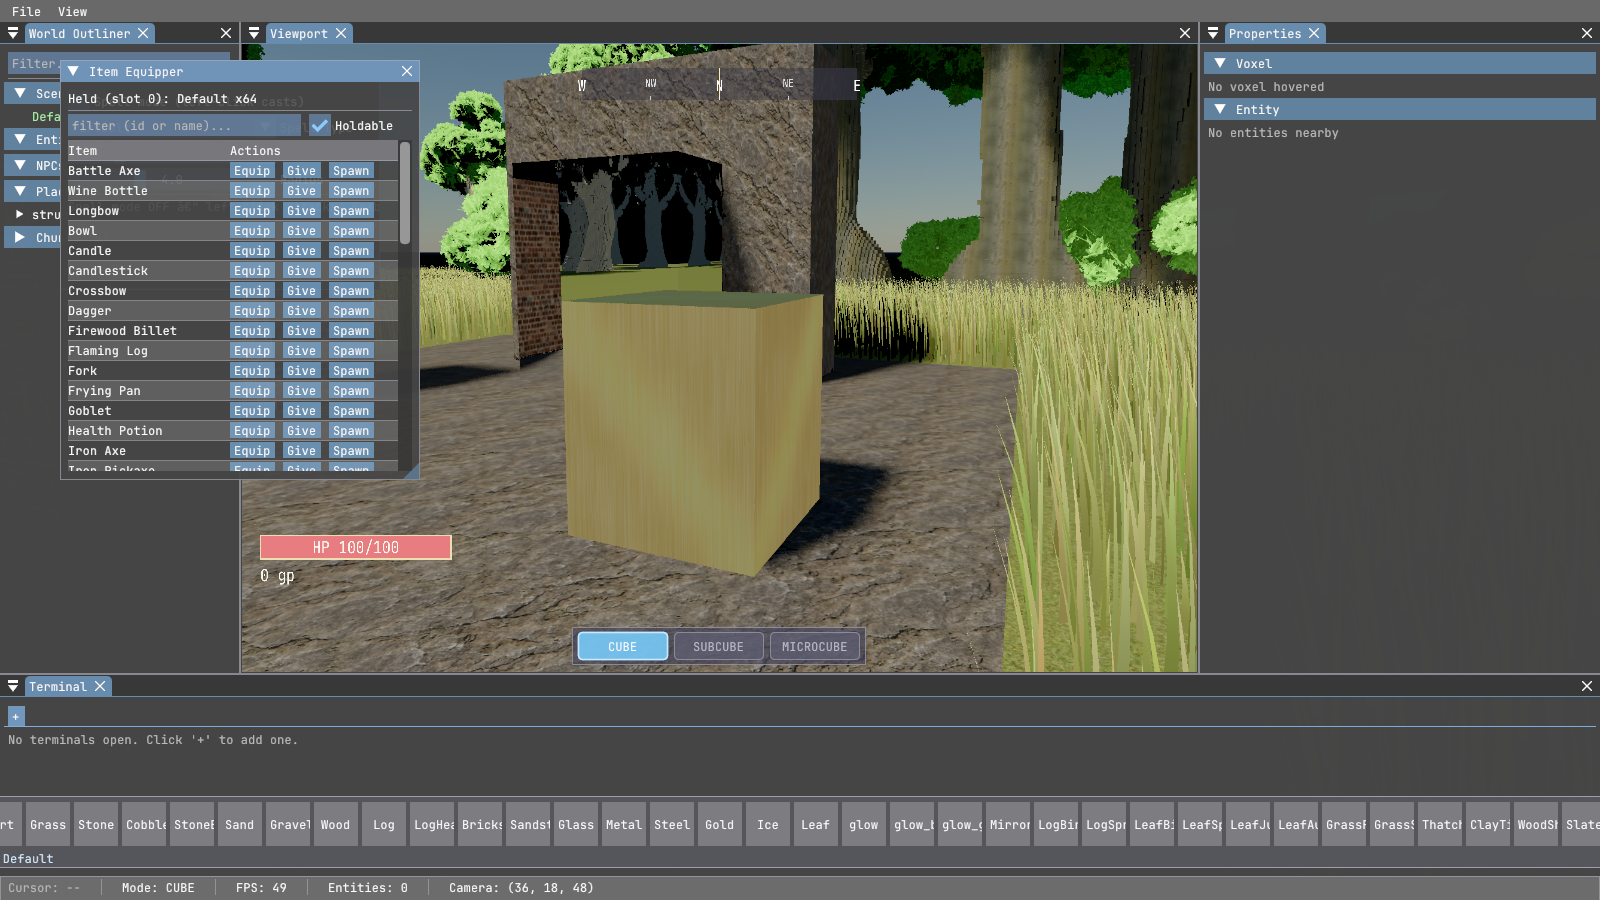
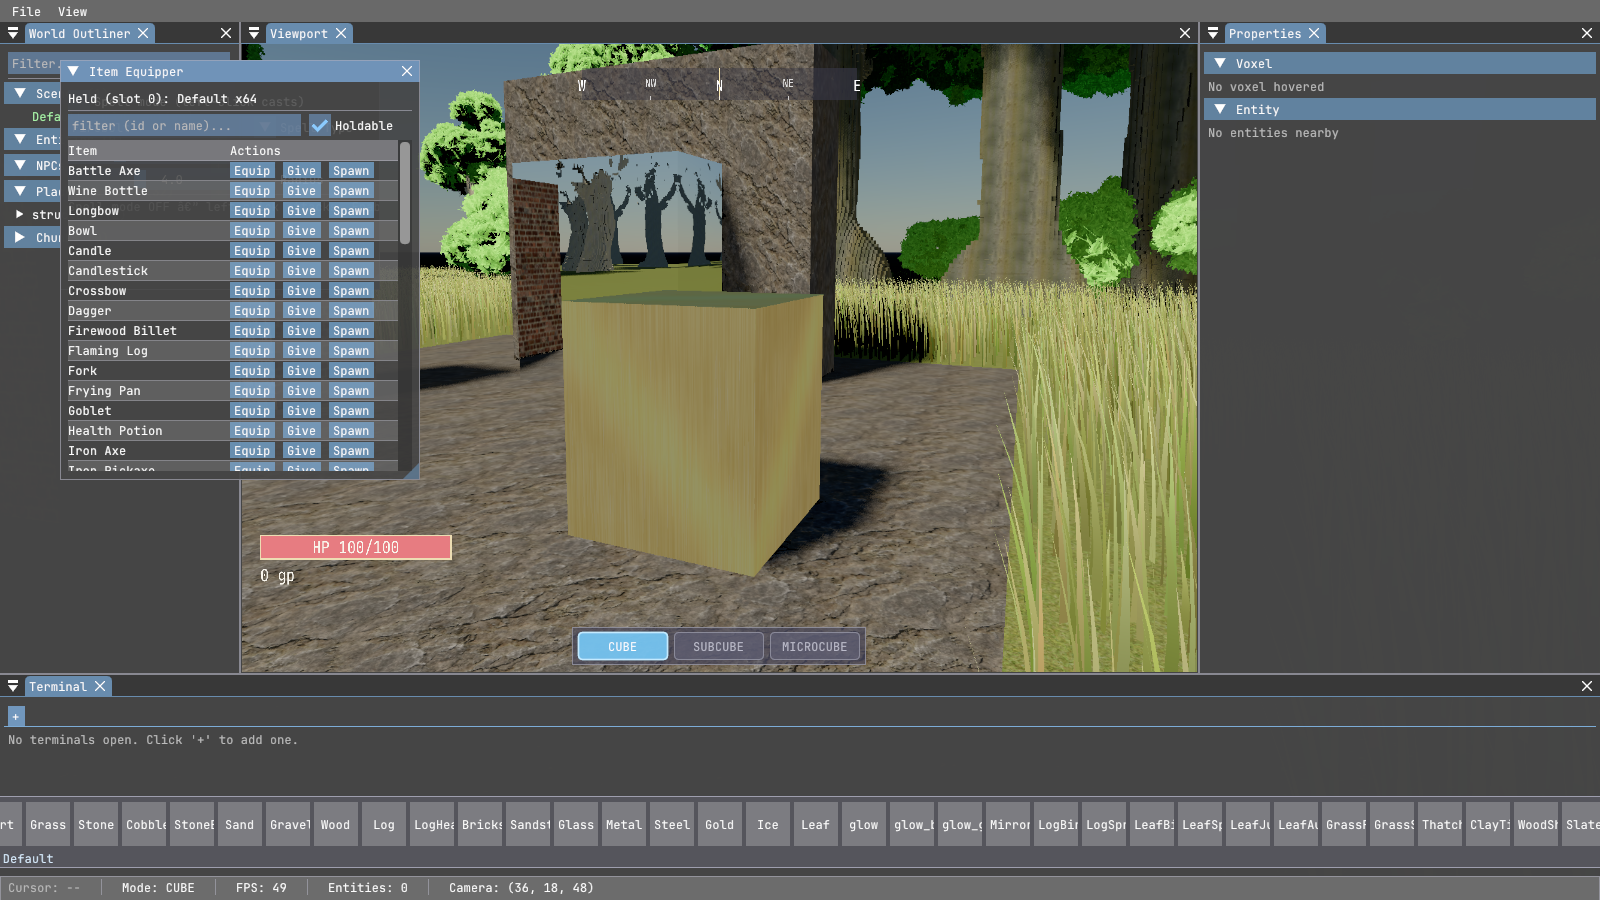
voxfound(D4 follow-up S7): the sky in mirrors
The reflection pass draws the sky first along the reflected view (drawSky gains a view
override); mirrors showed black where no geometry was.

Changed region(s): [[0.3125, 0.1556, 0.4688, 0.28], [0.6562, 0.3111, 0.75, 0.3422], [0.5312, 0.3111, 0.625, 0.3422]]

diff --git a/engine/src/graphics/RenderCoordinator.cpp b/engine/src/graphics/RenderCoordinator.cpp
@@ -939,7 +939,7 @@ void RenderCoordinator::updateLightOccupancy() {
                                        m_lightOccupancy->ready());
 }
 
-void RenderCoordinator::drawSky(VkCommandBuffer cmd) {
+void RenderCoordinator::drawSky(VkCommandBuffer cmd, const glm::mat4* viewOverride) {
     if (!m_skyEnabled) return;
     if (!renderPipeline || renderPipeline->getSkyPipeline() == VK_NULL_HANDLE) return;
     if (!windowManager) return;
@@ -947,7 +947,7 @@ void RenderCoordinator::drawSky(VkCommandBuffer cmd) {
     // Camera basis in WORLD space, straight out of the view matrix. glm::lookAt stores the basis in
     // the ROWS of the rotation part, so right/up/-forward are read across the columns:
     //   view[0] = (right.x, up.x, -fwd.x, 0), view[1] = (right.y, ...), view[2] = (right.z, ...)
-    const glm::mat4& v = cachedViewMatrix;
+    const glm::mat4& v = viewOverride ? *viewOverride : cachedViewMatrix;   // S7: the reflected view in mirrors
     const glm::vec3 right   = glm::vec3(v[0][0], v[1][0], v[2][0]);
     const glm::vec3 up      = glm::vec3(v[0][1], v[1][1], v[2][1]);
     const glm::vec3 forward = -glm::vec3(v[0][2], v[1][2], v[2][2]);
@@ -2104,6 +2104,8 @@ void RenderCoordinator::renderReflectionPass(uint32_t frameIndex) {
 
     // Render the scene from the reflected camera into the reflection framebuffer
     postProcessor->beginReflectionRenderPass(vulkanDevice->getCommandBuffer(frameIndex));
+    // S7: the sky first, seen along the REFLECTED view (the reflection used to clear to black where no geometry was)
+    drawSky(vulkanDevice->getCommandBuffer(frameIndex), &reflectedView);
 
     // Bind reflection scene pipeline (BACK_BIT culling — winding is flipped by camera reflection)
     vkCmdBindPipeline(vulkanDevice->getCommandBuffer(frameIndex),

diff --git a/engine/include/graphics/RenderCoordinator.h b/engine/include/graphics/RenderCoordinator.h
@@ -851,7 +851,7 @@ public:
     /// Draw the atmospheric sky + sun + moon. Called FIRST inside the scene pass, with depth test
     /// and write disabled, so it fills the frame and geometry draws over it. Sets its own viewport
     /// and scissor because it runs before the pass's main dynamic-state setup.
-    void drawSky(VkCommandBuffer cmd);
+    void drawSky(VkCommandBuffer cmd, const glm::mat4* viewOverride = nullptr);   // S7: the reflection pass passes its view
 
     // ---- Exposure + tone curve (live-tunable; POST /api/debug/tonemap) --------------------------
     // The atmosphere returns physical RADIANCE, so exposure is the unit conversion that makes it
